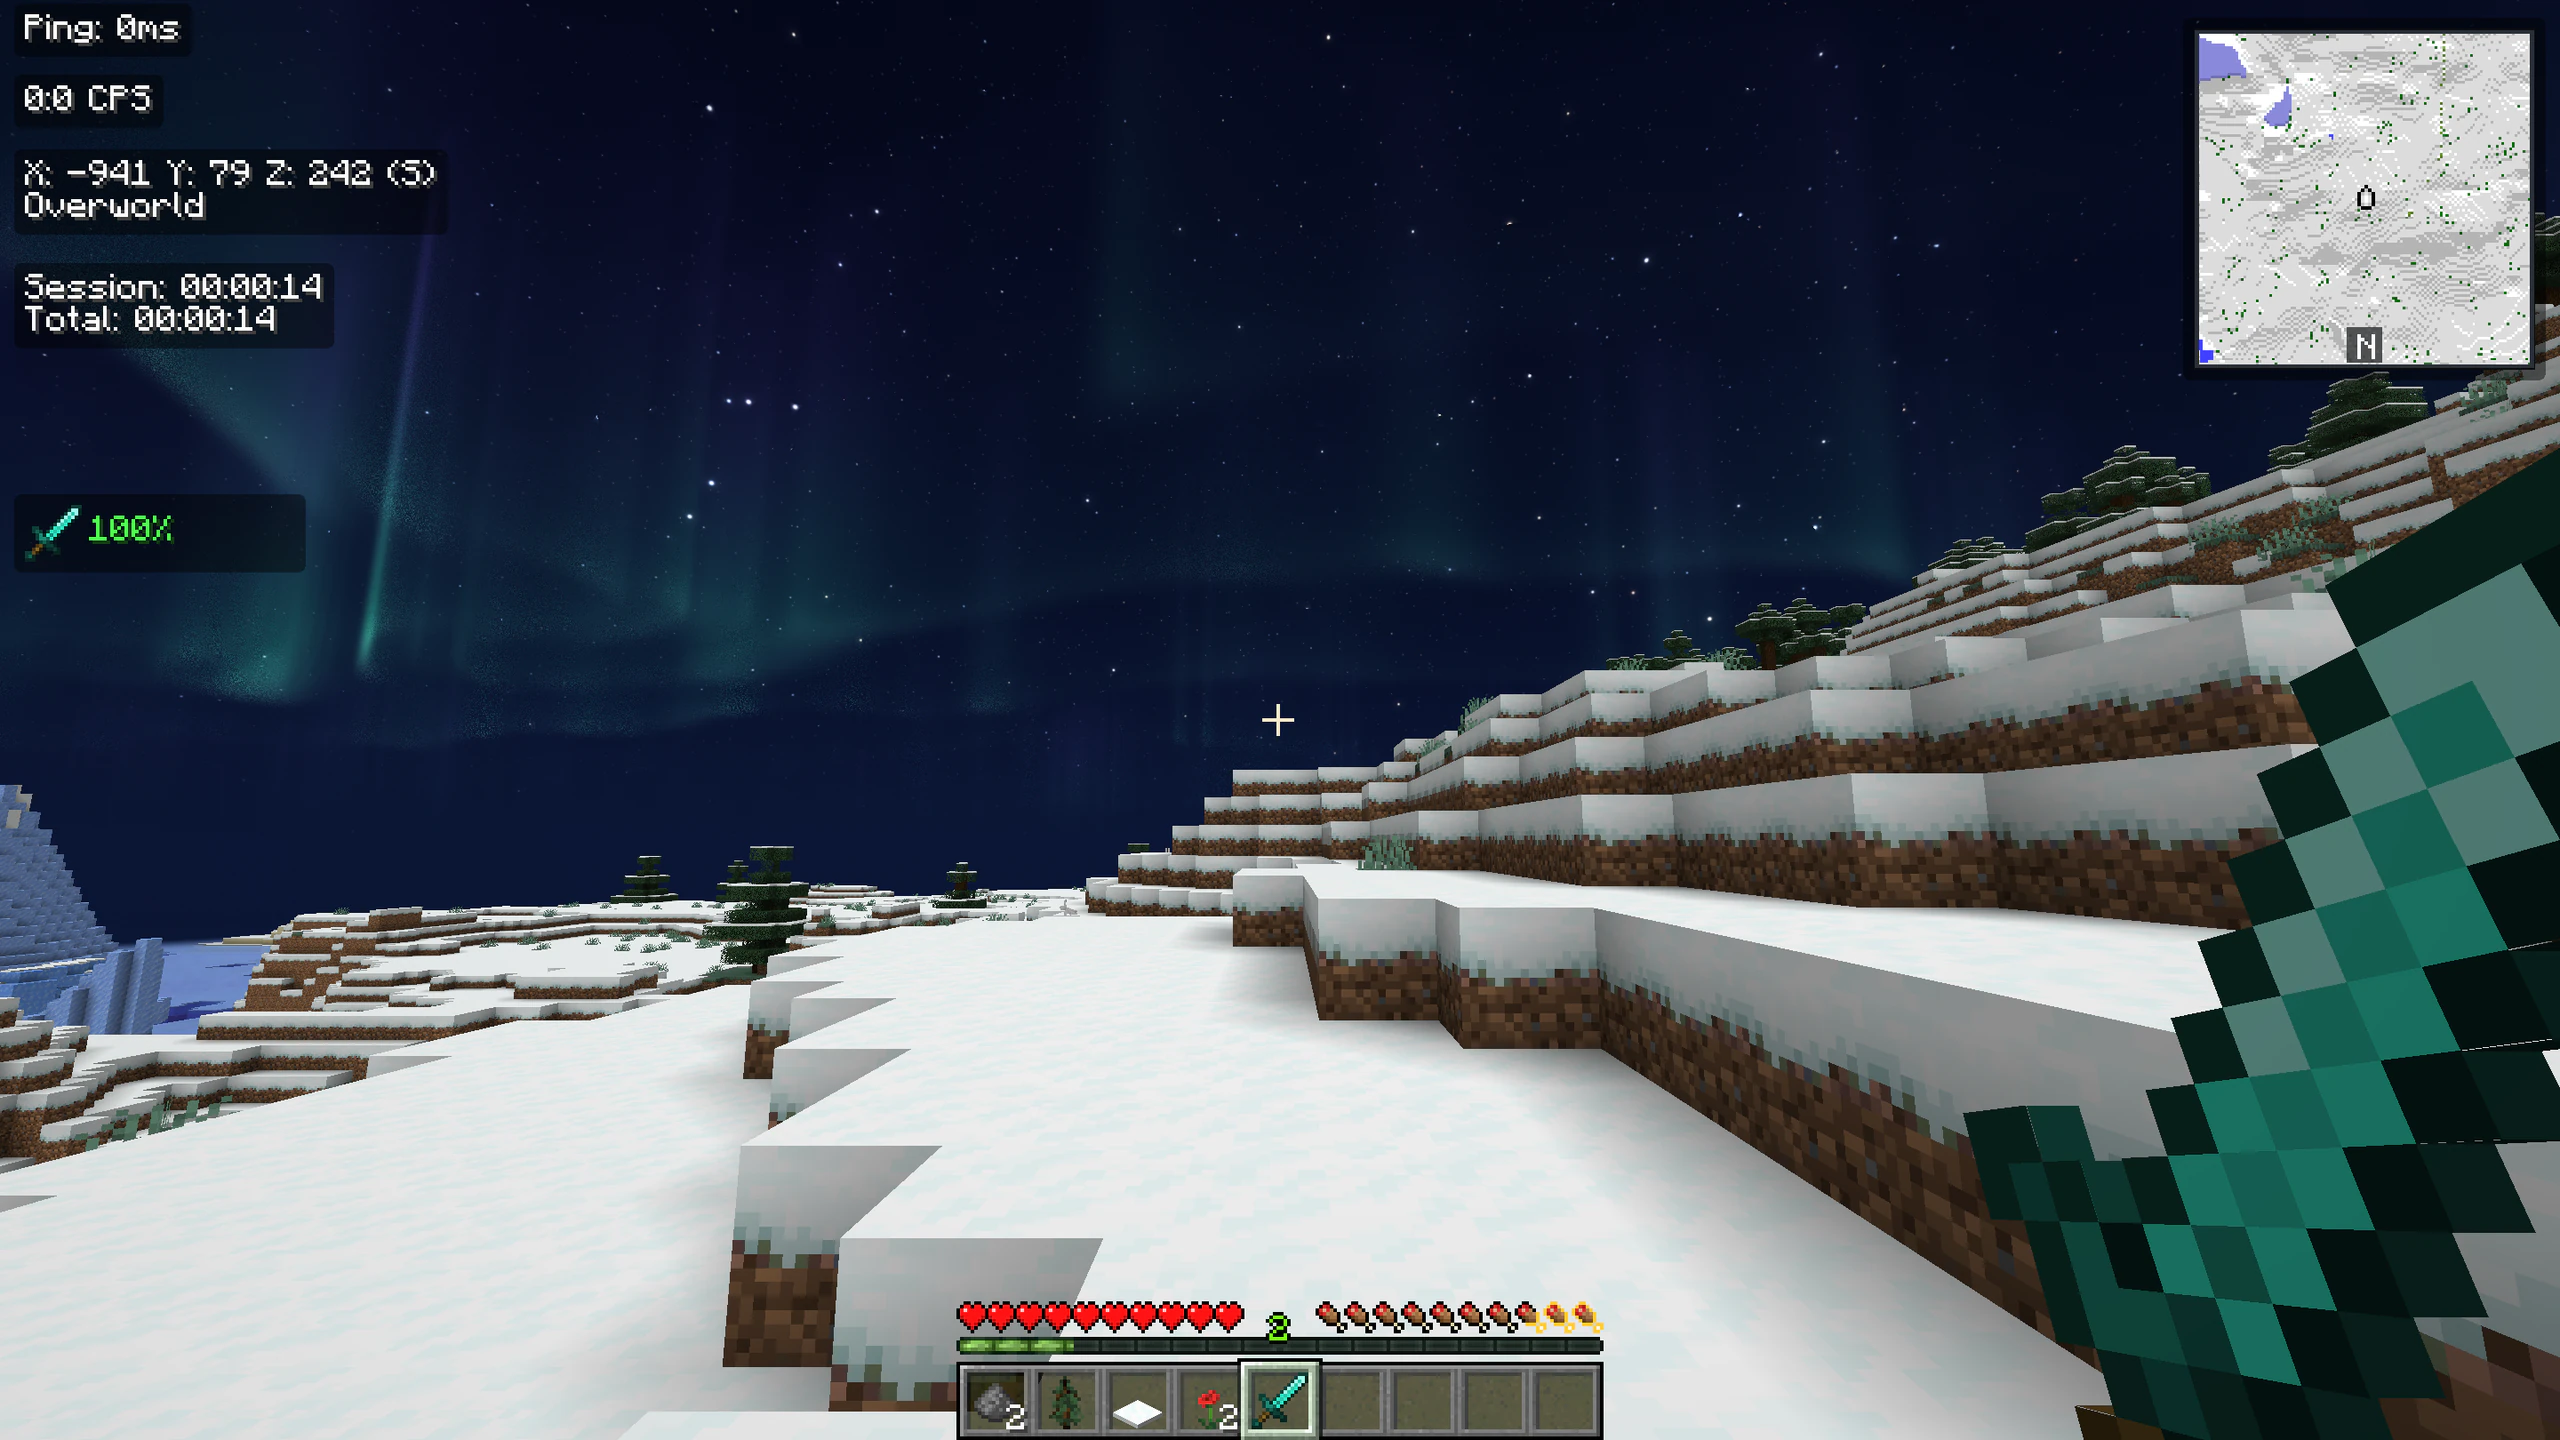
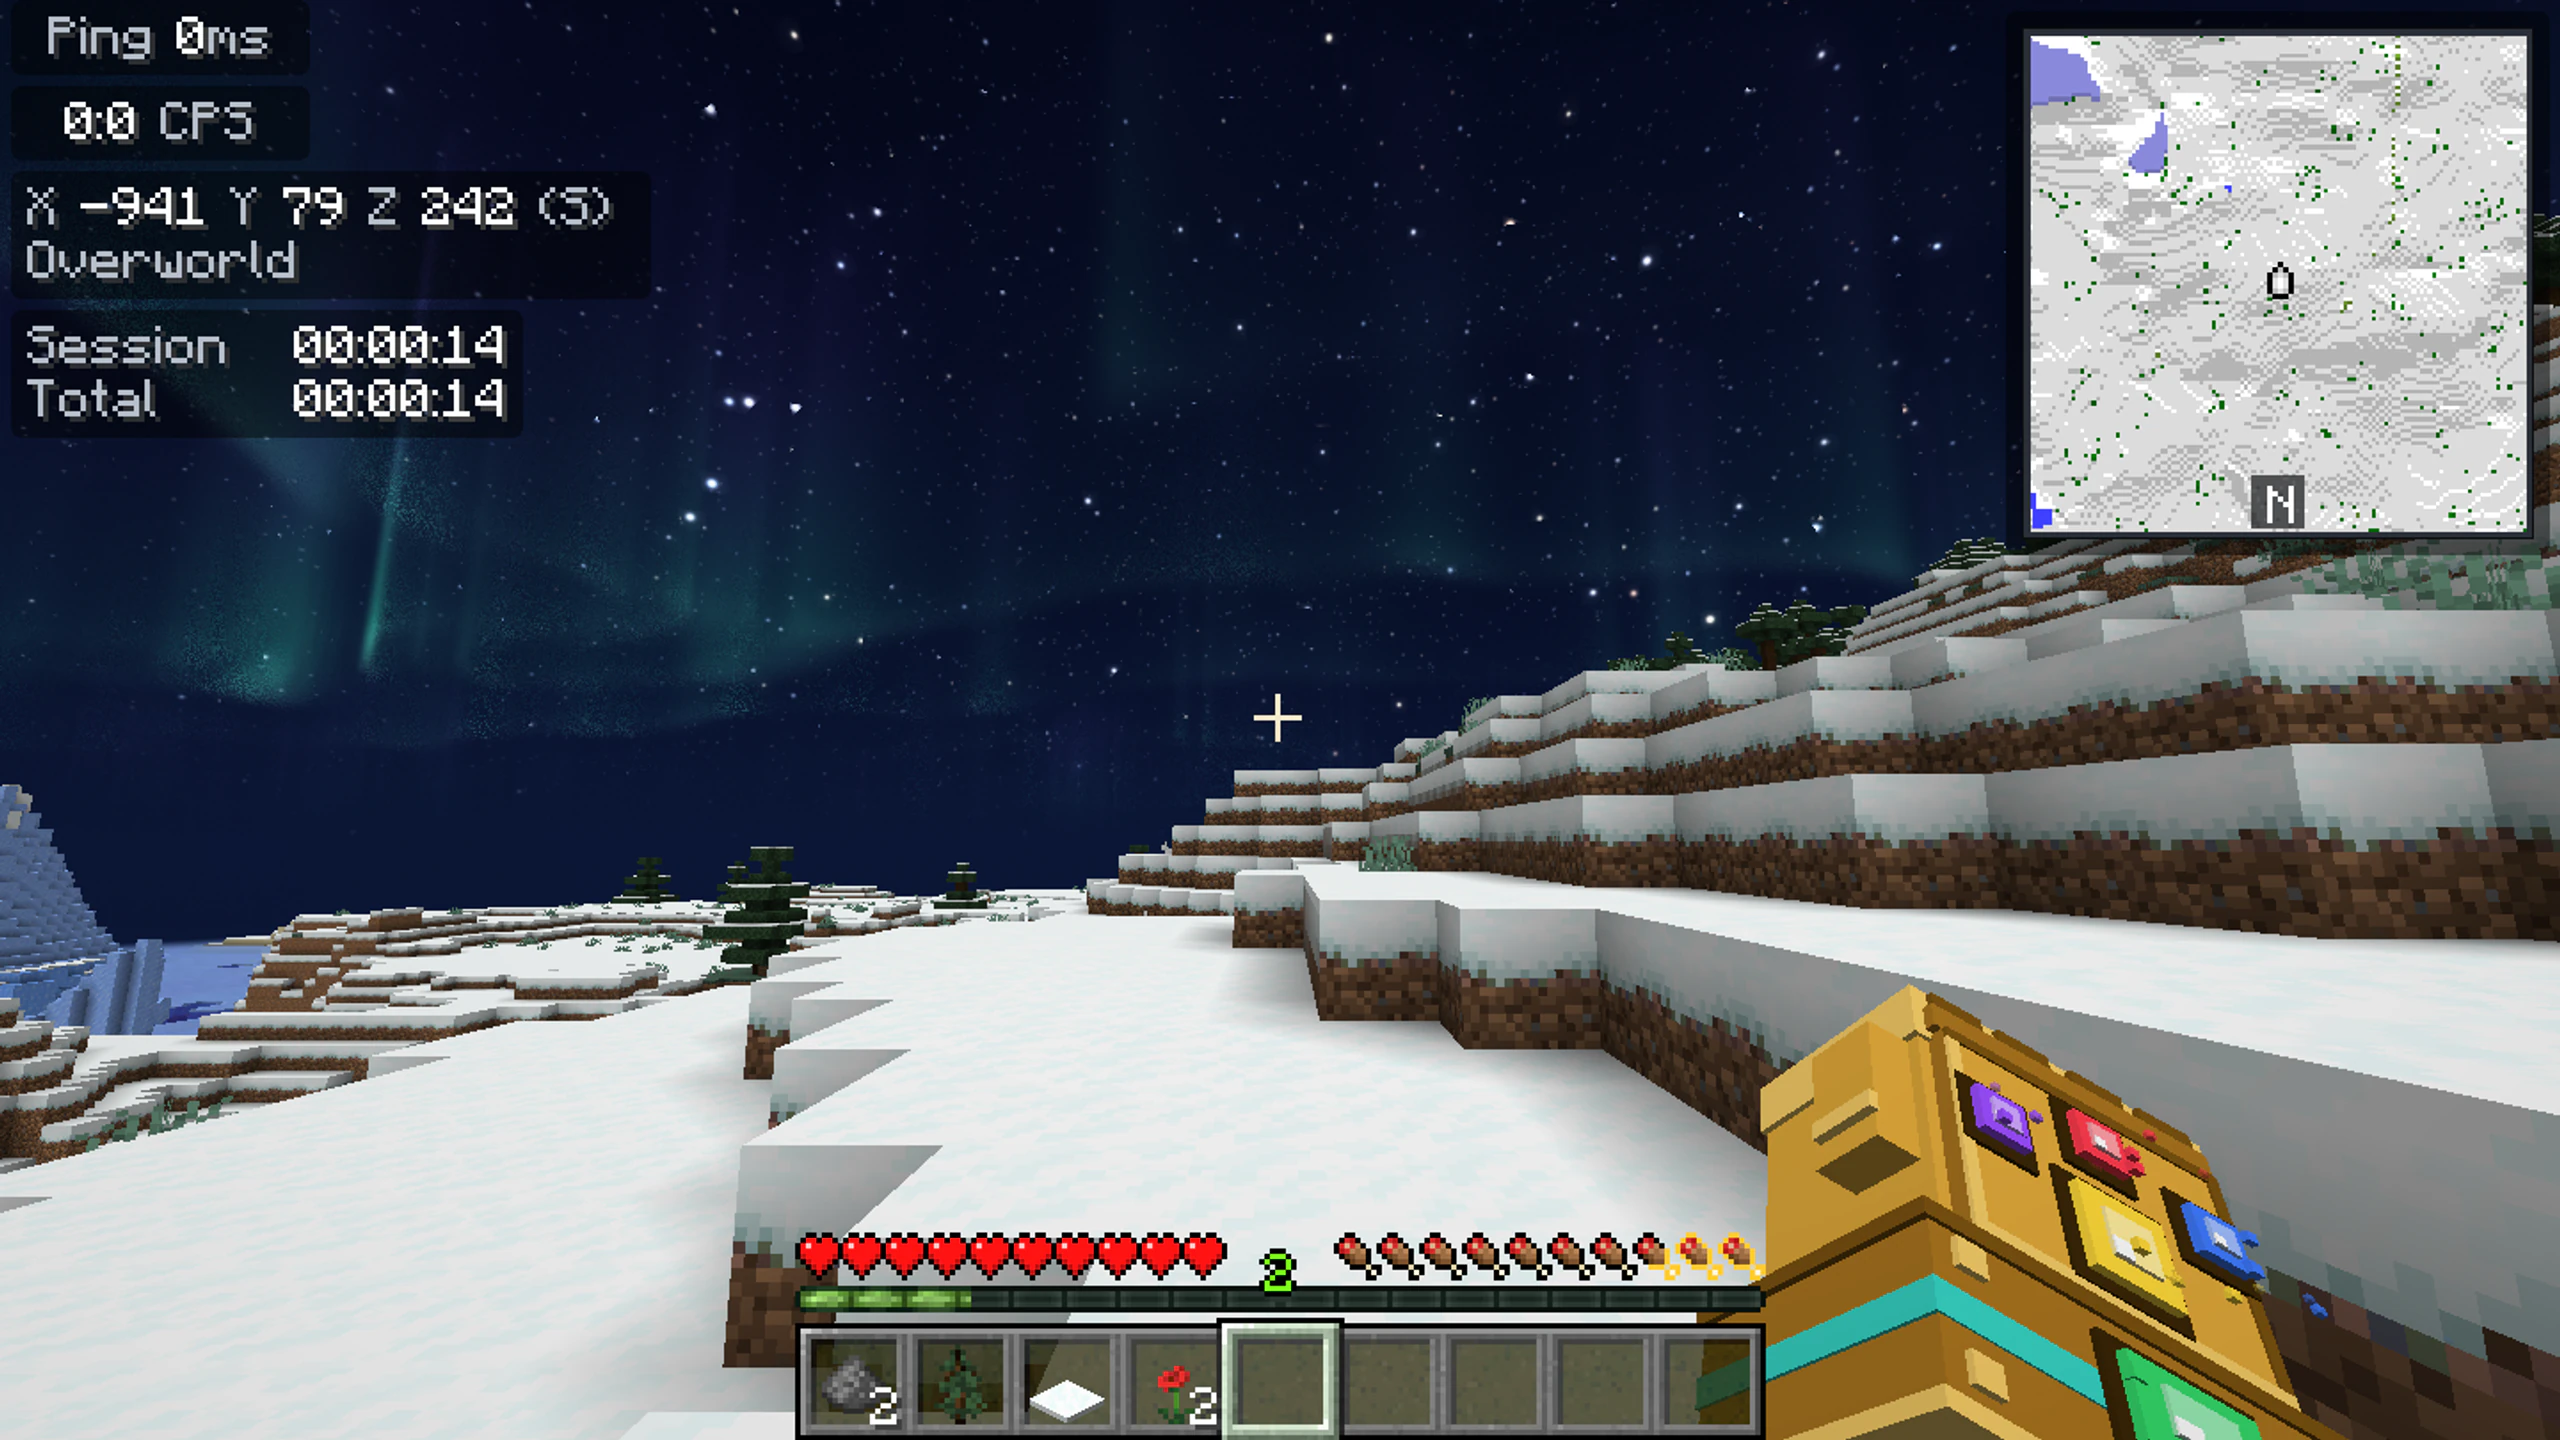
Hero in the Void Butterfly Wings, no cape; the gauntlet in the side by side; feature pictures that load
- Hero: the player wears the Void Butterfly Wings and nothing else (its still and the share picture
  re-captured); the cape's floating tag is gone.
- Side by side: re-shot with an empty hand - bare in Minecraft, the Stoneheart Gauntlet in Catalyst
  (the client's vz_cosmetics test file) - and Catalyst on the right, where the hand is, so it shows
  from the start.
- Feature cards: the pictures were lazy and had no size until loaded, so a browser that never counts a
  0x0 picture as on screen never loaded them (only the sky, which had a height, showed). Now sized
  and loaded at once, and layered with ordinary z-indexes.

diff --git a/app/page.tsx b/app/page.tsx
@@ -177,7 +177,7 @@ const STATS = [
  * screenshot harness (DebugShots) from the same spot at the same time of day: every module off for the
  * Minecraft one; for the Catalyst one these, the rest as a new player has them.
  */
-const COMPARE_ON = ["Sky Shaders: Aurora", "Minimap", "Ping", "CPS", "Coordinates", "Playtime", "Armour Status", "Saturation"];
+const COMPARE_ON = ["Stoneheart Gauntlet", "Sky Shaders: Aurora", "Minimap", "Ping", "CPS", "Coordinates", "Playtime", "Saturation"];
 
 /**
  * The home page: what Catalyst is, what it looks like, what it does and how to start - in that order,
@@ -358,7 +358,9 @@ export default function HomePage() {
                   <h3>{card.title}</h3>
                   <p>{card.text}</p>
                   {/* eslint-disable-next-line @next/next/no-img-element -- a small transparent render, served as it is */}
-                  <img className={styles.cardImage} src={card.image} alt="" loading="lazy" decoding="async" draggable={false} />
+                  {/* Sized and loaded at once: a lazy picture with no size of its own is 0x0 until it loads, and some
+                      browsers never count a 0x0 picture as on screen - so it never loaded at all. */}
+                  <img className={styles.cardImage} src={card.image} alt="" width={520} height={520} decoding="async" draggable={false} />
                 </>
               );
               const className = [
@@ -419,22 +421,23 @@ export default function HomePage() {
               Same world. More to see.
             </h2>
             <p className="lede">
-              Two shots of the same moment in the same world. Drag the line: Catalyst on the left, Minecraft as it
-              comes on the right.
+              Two shots of the same moment in the same world. Drag the line: Minecraft as it comes on the left,
+              Catalyst on the right.
             </p>
           </Reveal>
           <Reveal from="scale" className={styles.compareWrap}>
+            {/* Catalyst on the right: the gauntlet on the hand is in that corner, so it shows from the start. */}
             <Compare
               left={{
+                image: compareMinecraft,
+                label: "Minecraft",
+                alt: "A snowy valley in Minecraft without Catalyst: a bare hand, a blue sky with blocky clouds, and only the hotbar, health and hunger on screen",
+              }}
+              right={{
                 image: compareCatalyst,
                 label: "With Catalyst",
                 accent: true,
-                alt: "A snowy valley with Catalyst: an aurora and stars from Sky Shaders fill the sky, ping, CPS, coordinates, playtime and armour durability run down the left, and a minimap sits top right",
-              }}
-              right={{
-                image: compareMinecraft,
-                label: "Minecraft",
-                alt: "The same moment in Minecraft without Catalyst: a blue sky with blocky clouds, and only the hotbar, health and hunger on screen",
+                alt: "The same moment with Catalyst: the Stoneheart Gauntlet on the hand, an aurora and stars from Sky Shaders fill the sky, ping, CPS, coordinates and playtime run down the left, and a minimap sits top right",
               }}
             />
             <div className={styles.compareFoot}>

diff --git a/components/three/hero-scene.tsx b/components/three/hero-scene.tsx
@@ -5,12 +5,9 @@ import { useFrame } from "@react-three/fiber";
 import { useReducedMotion } from "motion/react";
 import { useMemo, useRef, useState, type ReactNode } from "react";
 import * as THREE from "three";
-import { SEASON, SHOP_ITEMS } from "@/lib/catalyst";
 import { Player } from "./player";
 import { Stage, useWindowPointer } from "./stage";
 import { makeGlowTexture } from "./textures";
-
-const SCULK_CAPE = SHOP_ITEMS.find((item) => item.id === "sculk-cape")!.colors;
 
 /**
  * A soft pool of light on the ground, and a fainter one standing up behind the player - kept well
@@ -74,27 +71,27 @@ function HeroContent() {
   });
   return (
     <>
-      <Lights ember />
+      <Lights />
       <group ref={spin}>
-        <Player wearing={{ cape: { colors: SCULK_CAPE }, wings: SEASON.headlineModel }} look={pointer} still={!!reduced} />
+        <Player wearing={{ wings: { type: "glb", file: "void_butterfly_wings" } }} look={pointer} still={!!reduced} />
       </group>
       <FloorGlow />
       {!reduced && (
         <>
           <Sparkles count={70} scale={[5.5, 3.6, 4]} position={[0, 1.5, 0]} size={2.6} speed={0.35} color="#6ff5e6" opacity={0.85} />
-          <Sparkles count={24} scale={[2.4, 2, 1.6]} position={[0, 1.5, -0.8]} size={3.2} speed={0.5} color="#ffb27a" opacity={0.9} />
+          <Sparkles count={24} scale={[2.4, 2, 1.6]} position={[0, 1.5, -0.8]} size={3.2} speed={0.5} color="#b98cff" opacity={0.9} />
         </>
       )}
     </>
   );
 }
 
-/** The home page's hero: our player in the Sculk Cape and Emberfall Wings, turning slowly. */
+/** The home page's hero: our player in the Void Butterfly Wings, turning slowly. */
 export default function HeroScene({ className, fallback }: { className?: string; fallback: ReactNode }) {
   return (
     <Stage
       className={className}
-      label="A Catalyst player wearing the Sculk Cape and the Emberfall Wings, turning slowly"
+      label="A Catalyst player wearing the Void Butterfly Wings, turning slowly"
       camera={{ position: [0, 1.3, 6.2], fov: 30 }}
       fallback={fallback}
     >

diff --git a/app/home.module.css b/app/home.module.css
@@ -110,11 +110,6 @@
   color: var(--muted);
   font-size: 0.75rem;
 }
-.tagCape {
-  left: 0;
-  top: 58%;
-  border-left: 0.1875rem solid #1e9aa1;
-}
 .tagWings {
   right: 0;
   top: 20%;
@@ -173,7 +168,6 @@
     order: -1;
     margin-bottom: -2.5rem;
   }
-  .tagCape,
   .tagWings {
     display: none;
   }
@@ -1494,6 +1488,13 @@
 a.featureCard:hover {
   text-decoration: none;
 }
+/* The words over the picture by an ordinary stacking order - no negative z-index: Safari drops a rotated,
+   filtered picture placed under its card's own background. */
+.featureCard h3,
+.featureCard p {
+  position: relative;
+  z-index: 2;
+}
 .featureCard h3 {
   max-width: 16rem;
   font-size: 1.25rem;
@@ -1510,9 +1511,9 @@ a.featureCard:hover {
   position: absolute;
   right: -1.25rem;
   bottom: -2.25rem;
-  z-index: -1;
+  z-index: 1;
   width: 56%;
-  max-height: 70%;
+  height: 70%;
   object-fit: contain;
   object-position: right bottom;
   filter: grayscale(1) brightness(0.7) contrast(1.05);
@@ -1526,7 +1527,7 @@ a.featureCard:hover {
   position: absolute;
   right: -18%;
   bottom: -32%;
-  z-index: -2;
+  z-index: 0;
   width: 80%;
   height: 80%;
   border-radius: 50%;
@@ -1557,7 +1558,6 @@ a.featureCard:hover {
   bottom: 0;
   width: 100%;
   height: 62%;
-  max-height: none;
   object-fit: cover;
   object-position: center 35%;
   transform: none;
@@ -1600,7 +1600,7 @@ a.featureCard:hover {
   right: -0.75rem;
   bottom: -1.25rem;
   width: 84%;
-  max-height: 62%;
+  height: 62%;
 }
 @media (max-width: 620px) {
   .cards {
@@ -1612,7 +1612,7 @@ a.featureCard:hover {
   /* Narrow cards: a smaller picture, so it stays under the words rather than over them. */
   .cardImage {
     width: 44%;
-    max-height: 54%;
+    height: 54%;
   }
   .featureCardWide .cardImage {
     width: 70%;

diff --git a/components/home/hero-stage.tsx b/components/home/hero-stage.tsx
@@ -22,13 +22,9 @@ export function HeroStage() {
       <DeferredScene poster={<Poster />}>
         <HeroScene className={styles.scene} fallback={<Poster />} />
       </DeferredScene>
-      <span className={`${styles.floatTag} ${styles.tagCape}`}>
-        <b>Sculk Cape</b>
-        <em>It hums when no one is near.</em>
-      </span>
       <span className={`${styles.floatTag} ${styles.tagWings}`}>
-        <b>Emberfall Wings</b>
-        <em>Battle pass · level 50</em>
+        <b>Void Butterfly Wings</b>
+        <em>Hatched where the End begins.</em>
       </span>
     </div>
   );

diff --git a/README.md b/README.md
@@ -57,8 +57,9 @@ the same spot at the same time: run `runClient` with `--width 1440 --height 810`
 2880x1620) and its own `--gameDir` (an init script adding both to the run's args, so no saves or settings of
 the team's are touched), `-Dvz_world=<a copied save> -Dvz_config=<an empty folder> -Dvz_skin=steve
 -Dvz_command_tick=20 -Dvz_panorama_tick=220` and `-Dvz_commands="time set 1000;weather clear;item replace entity
-@s weapon.mainhand with diamond_sword;tp @s -940.67 79 241.5 0 -8"` (that save's snowy valley), the game's chat
-hidden and GUI scale 4 in that folder's options.txt. Minecraft: `-Dvz_disable=` every module that starts on.
+@s weapon.mainhand with air;tp @s -940.67 79 241.5 0 -8"` (that save's snowy valley, an empty hand), the game's chat
+hidden and GUI scale 4 in that folder's options.txt, and `-Dvz_cosmetics=<file>`: `{}` for Minecraft,
+`{"gauntlet": {"name": "Stoneheart Gauntlet", "colors": ["#E0A83A"]}}` for Catalyst, so the hand wears it. Minecraft: `-Dvz_disable=` every module that starts on.
 Catalyst: `-Dvz_enable=sky_shaders,minimap -Dvz_disable=fps` - the FPS readout is off because a dev run at that size,
 without the Sodium a real launch brings, says nothing true about speed. The chips under it list what is on. Then
 `vz_menu.png` from that folder's `screenshots/`, resized to 2560x1440 WebP (quality 90). The mods panel's icons come straight from
